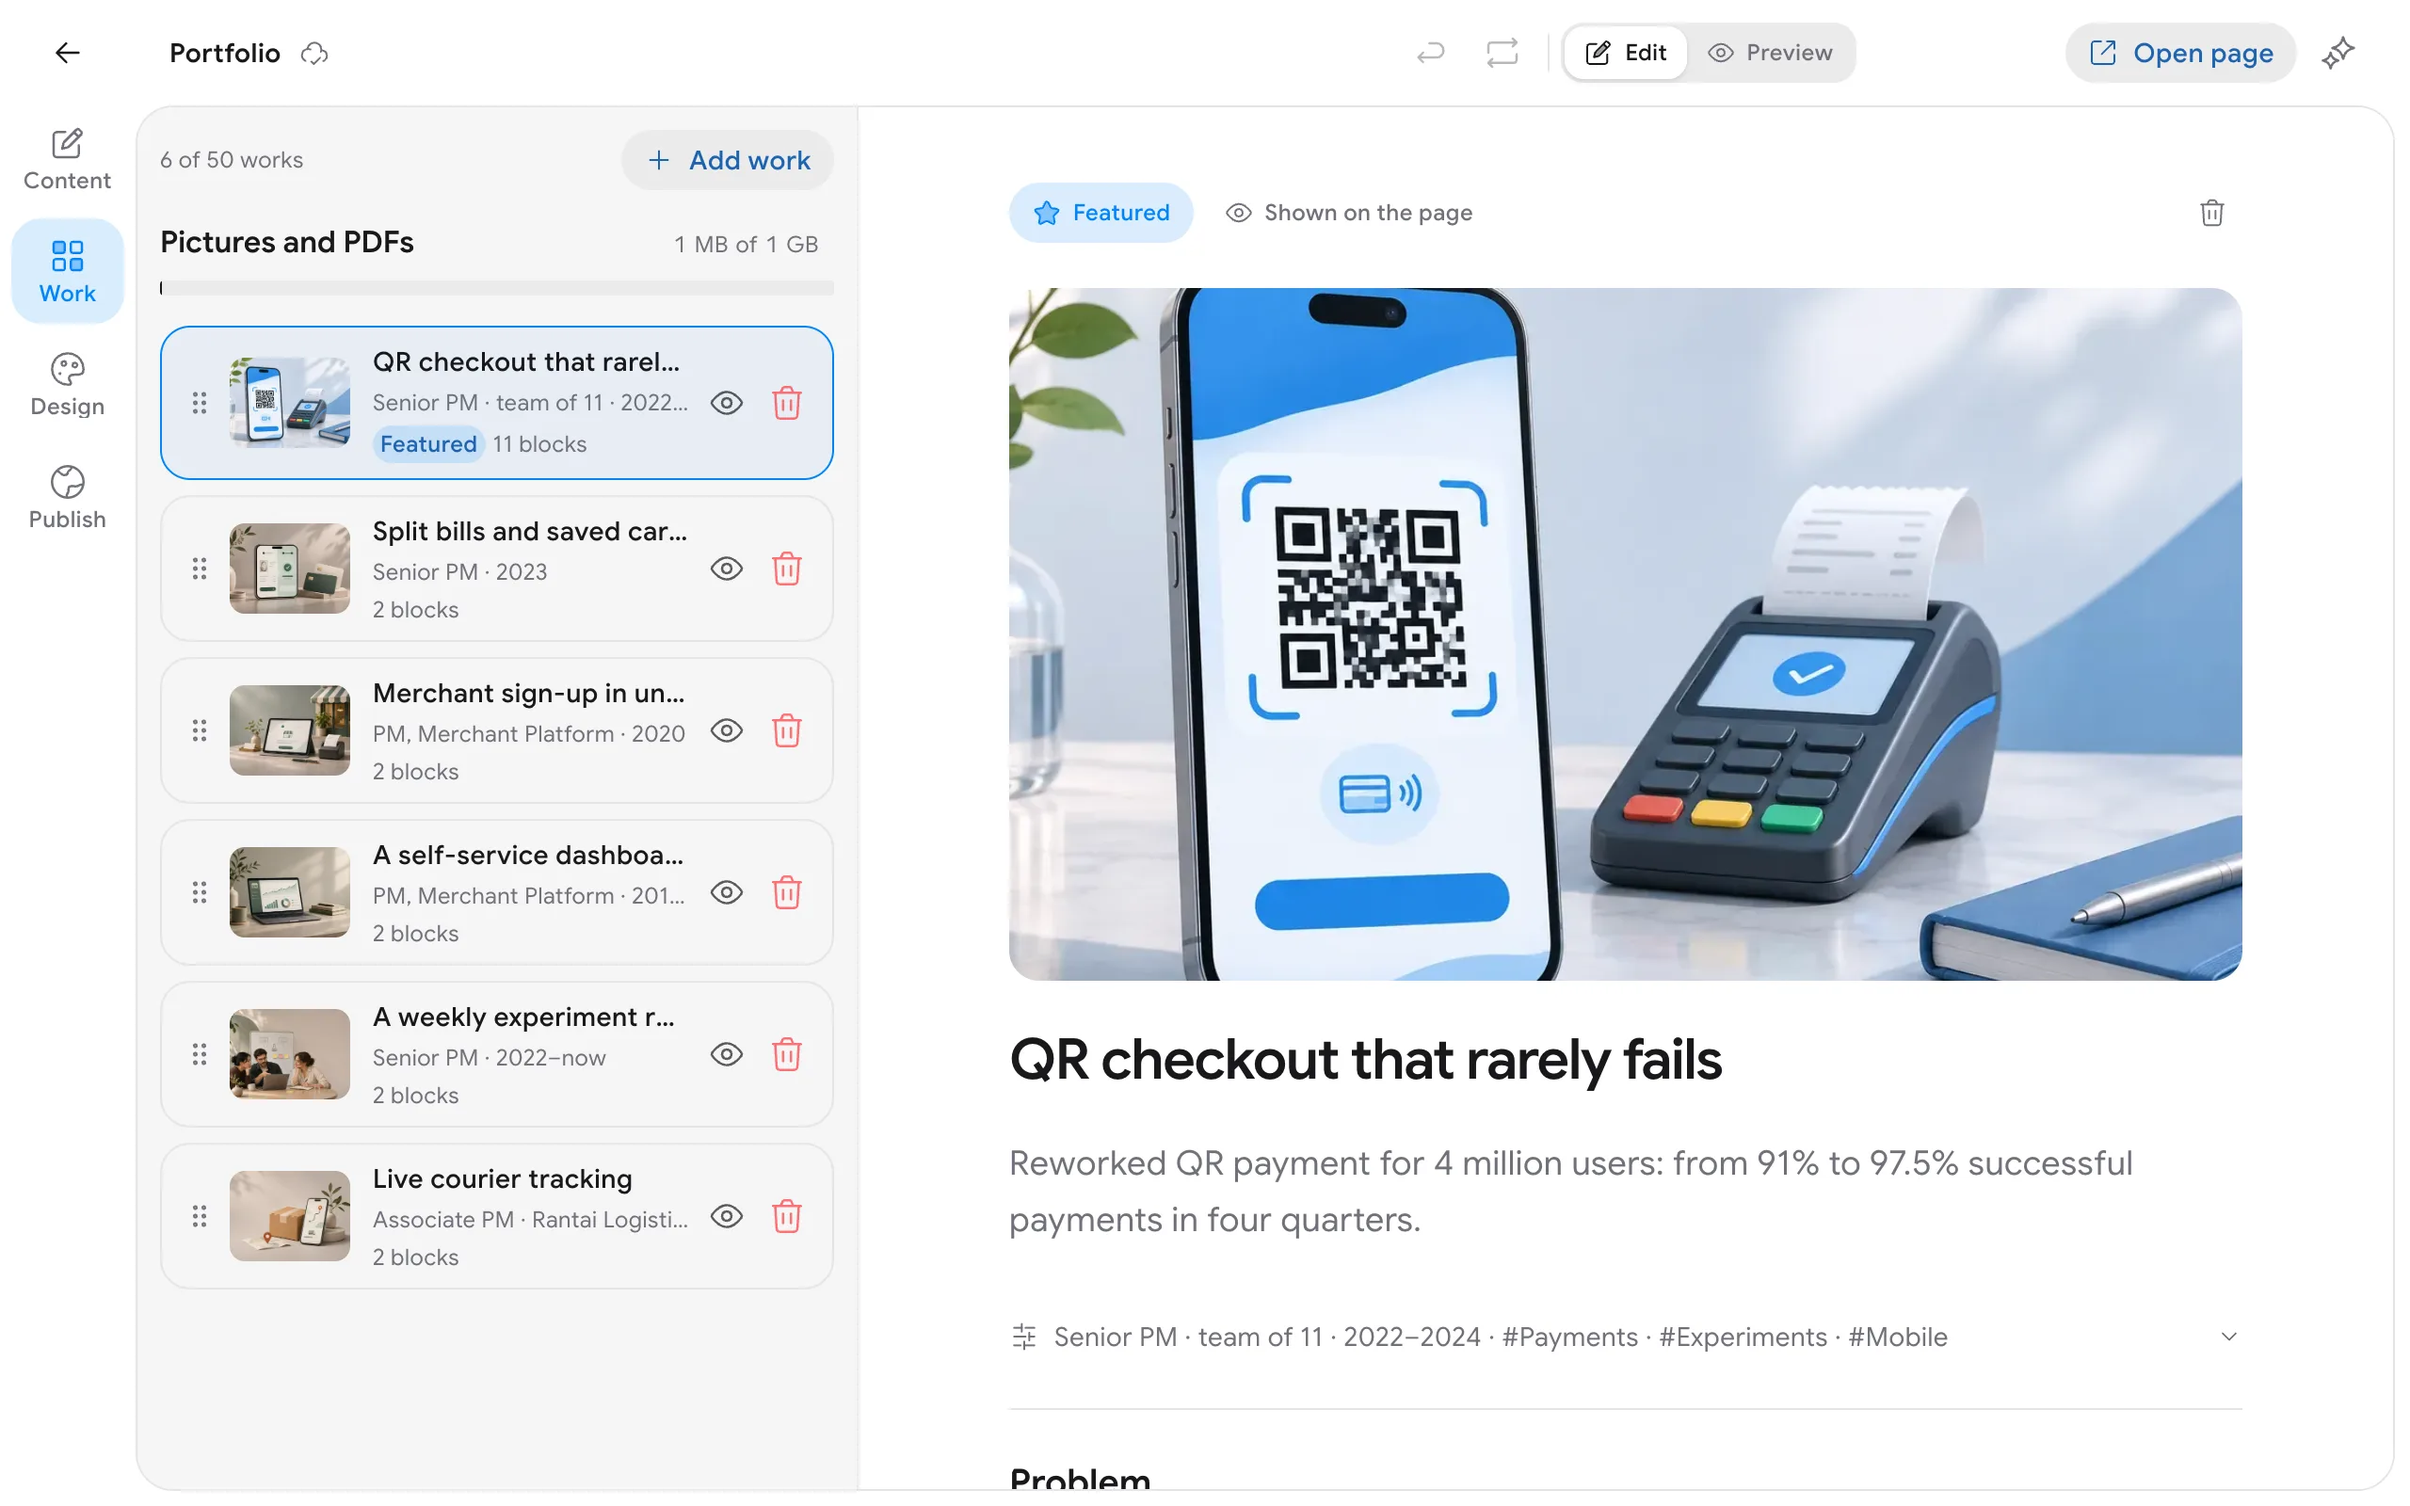
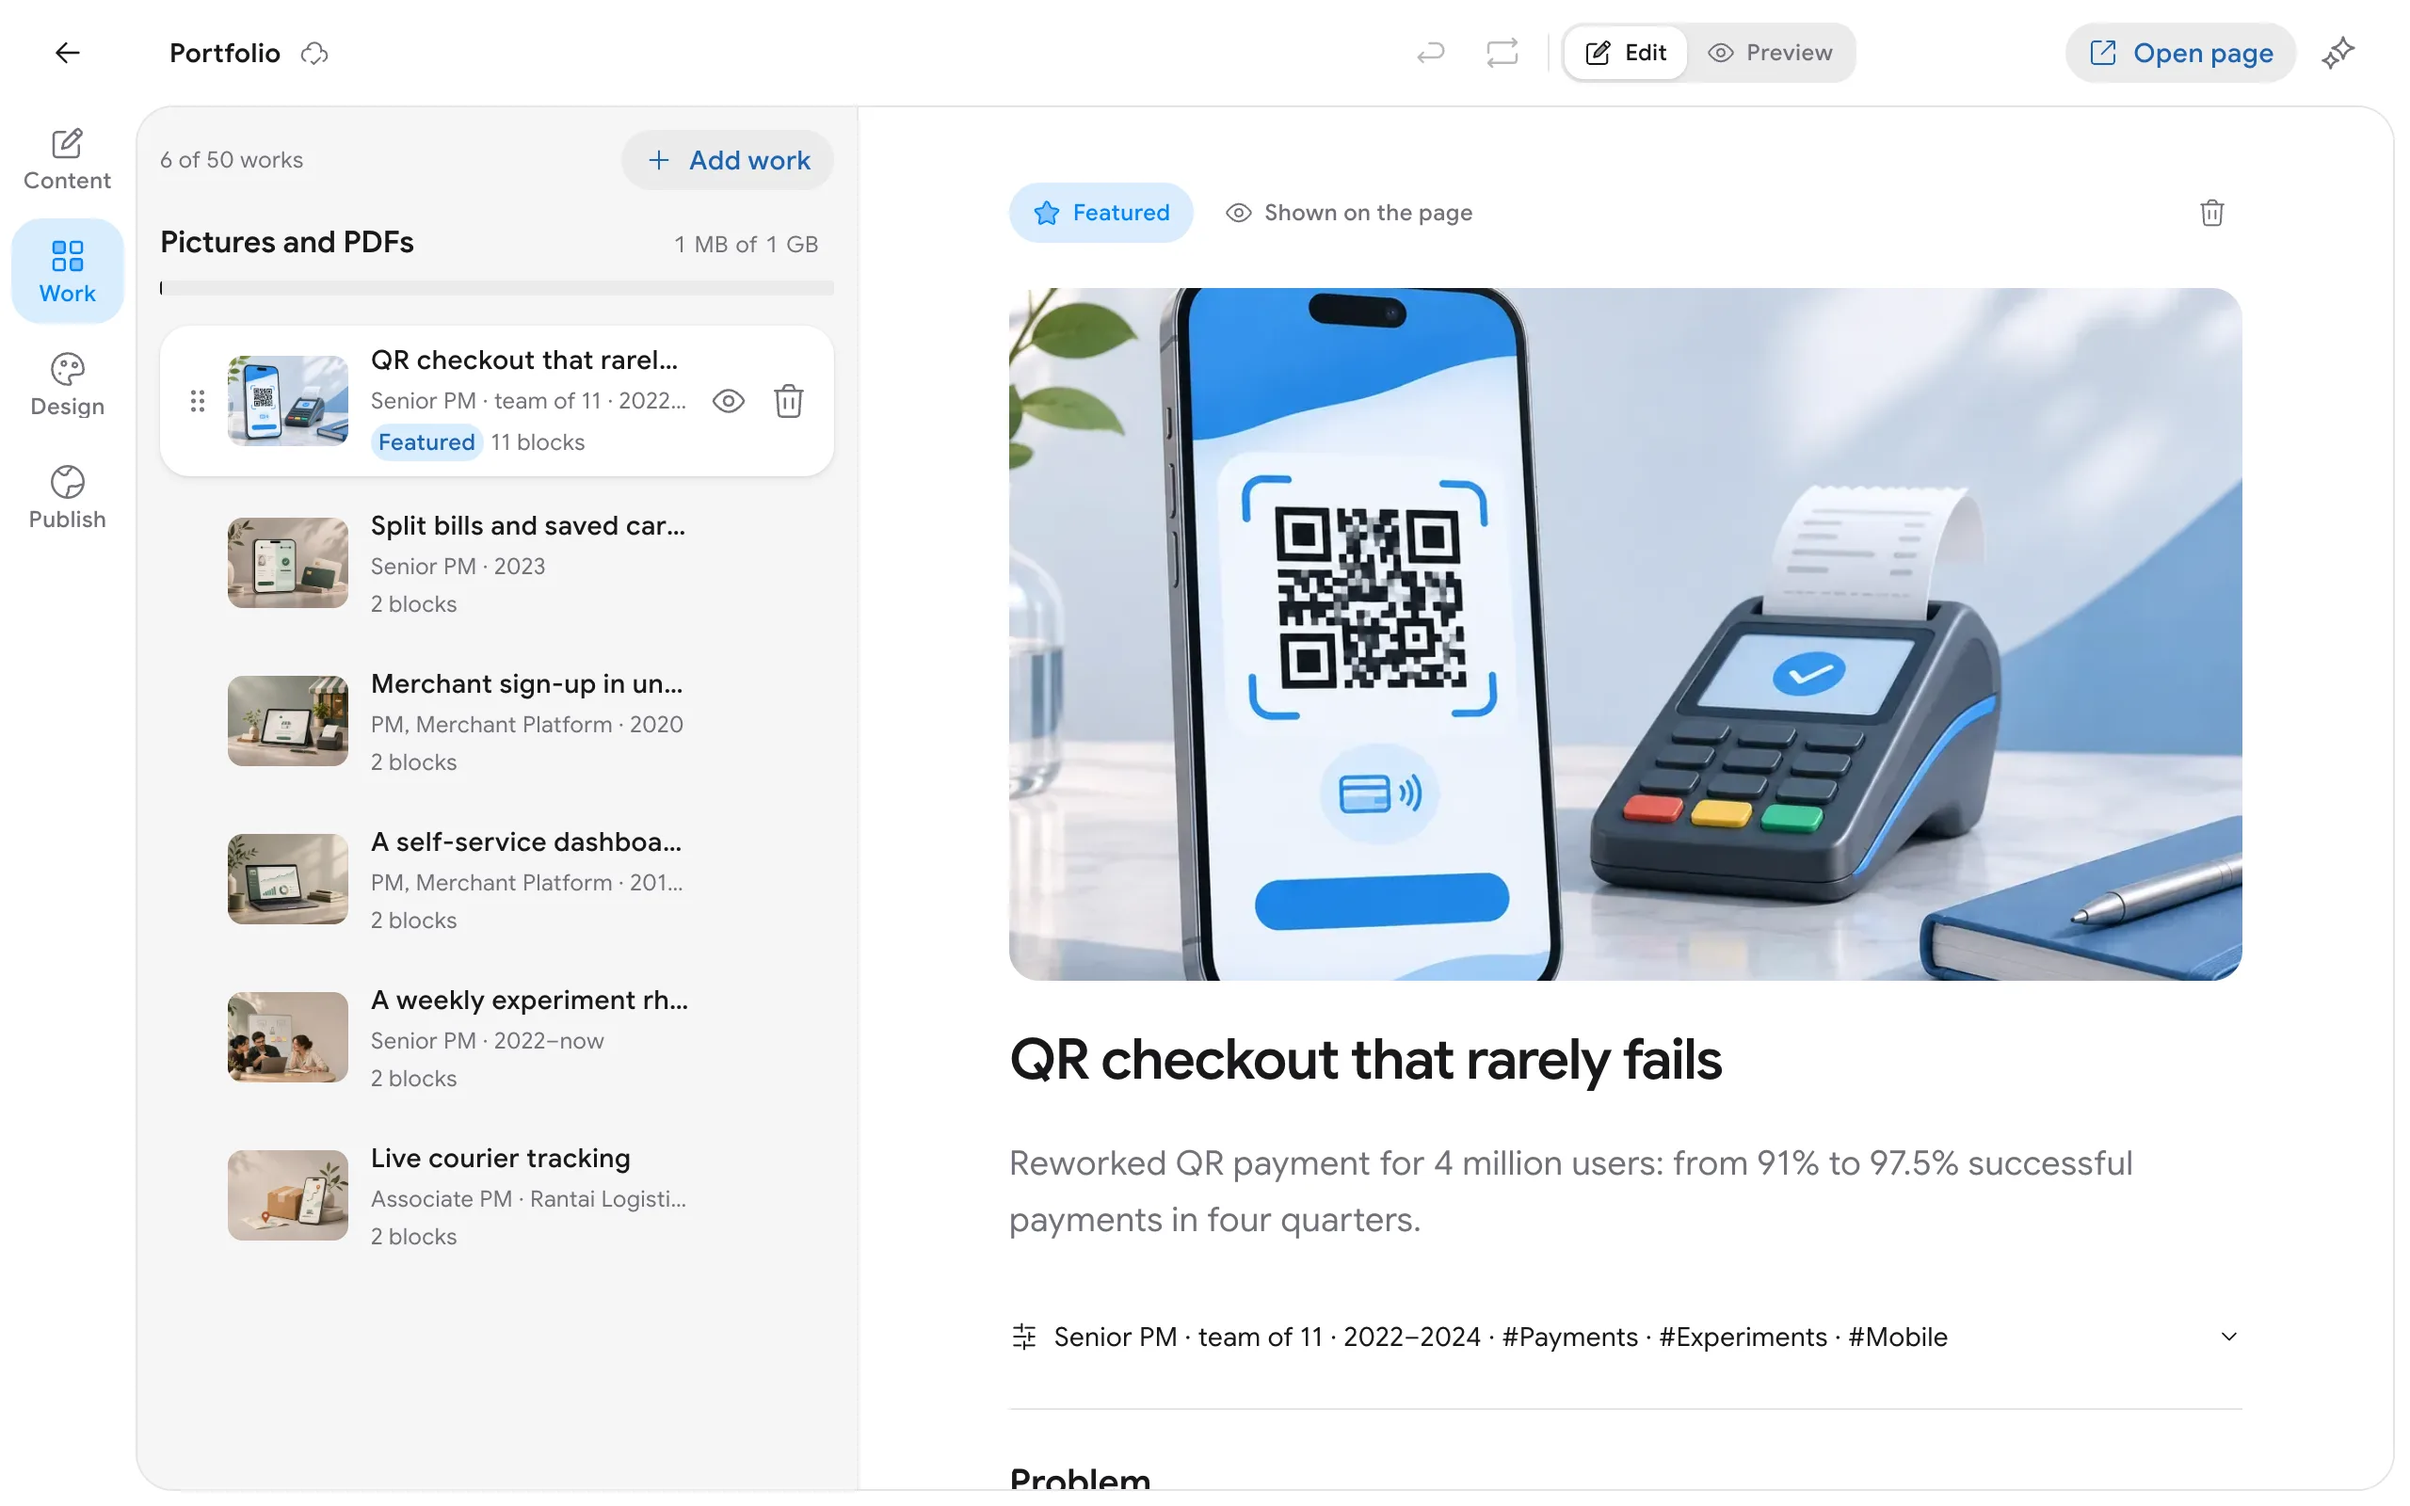
feat(web): calmer work list in the portfolio editor
Work rows lose their border; the open one is a white card. The drag handle,
hide and delete show while a row is hovered, focused or open (always on
touch screens), and a hidden work keeps its crossed eye in view. Delete is
muted until pointed at. The guide's screenshot follows.

diff --git a/apps/web/src/features/portfolio/works/works-panel.tsx b/apps/web/src/features/portfolio/works/works-panel.tsx
@@ -168,13 +168,14 @@ function WorksList() {
 								itemProps={itemProps}
 							>
 								<WorkCardButton work={work} title={title} selected={work.id === openWorkId} />
-								<div className="flex shrink-0 items-center opacity-70 group-hover/work:opacity-100">
+								<div className="flex shrink-0 items-center">
 									<IconButton
 										icon={work.hidden ? "eye-slash" : "eye"}
 										size="sm"
 										aria-pressed={work.hidden}
 										label={work.hidden ? t`Show ${title} on the page` : t`Hide ${title} from the page`}
-										className={cn(work.hidden && "text-muted")}
+										// A hidden work keeps its crossed eye in view: it's the row's state, not just a control.
+										className={cn("text-muted", !work.hidden && ROW_CONTROL)}
 										onPress={() =>
 											editPortfolio((draft) => {
 												// By id: the list may have moved since this row was drawn (a drop, Undo).
@@ -187,7 +188,7 @@ function WorksList() {
 										icon="trash"
 										size="sm"
 										label={t`Delete ${title}`}
-										className="text-danger"
+										className={cn("text-muted hover:text-danger", ROW_CONTROL)}
 										onPress={() => void remove(work.id, title)}
 									/>
 								</div>
@@ -265,21 +266,29 @@ type WorkRowProps = {
 	children: ReactNode;
 };
 
-/** One work in the list: a drag handle, then what opens the work and its buttons. */
+/**
+ * A row's controls (handle, hide, delete) show while it's hovered, focused or open, and always on touch screens, so
+ * the list reads as covers and titles.
+ */
+const ROW_CONTROL =
+	"opacity-0 transition-opacity duration-quick group-focus-within/work:opacity-100 group-hover/work:opacity-100 group-data-selected/work:opacity-100 pointer-coarse:opacity-100";
+
+/** One work in the list: a drag handle, then what opens the work and its buttons. No frame unless it's open. */
 function WorkRow({ id, index, title, selected, itemProps, children }: WorkRowProps) {
 	const sortable = useSortableItem({ id, list: "works", index, label: title });
 	return (
 		<li {...itemProps}>
 			<div
 				{...sortable.dropTargetProps}
+				data-selected={selected || undefined}
 				className={cn(
-					"group/work relative flex items-center gap-1 rounded-2xl border p-2 transition-colors duration-quick",
-					selected ? "border-accent bg-accent-soft/40" : "border-separator hover:bg-default/60",
+					"group/work relative flex items-center gap-1 rounded-2xl p-2 transition-[background-color,box-shadow] duration-quick",
+					selected ? "bg-surface shadow-surface" : "hover:bg-default/60",
 					sortable.isDragging && "opacity-50",
 				)}
 			>
 				<SortableEdge edge={sortable.edge} />
-				<SortableHandle item={sortable} label={t`Reorder ${title}`} className="h-12 w-6" />
+				<SortableHandle item={sortable} label={t`Reorder ${title}`} className={cn("h-12 w-6", ROW_CONTROL)} />
 				{children}
 			</div>
 		</li>
